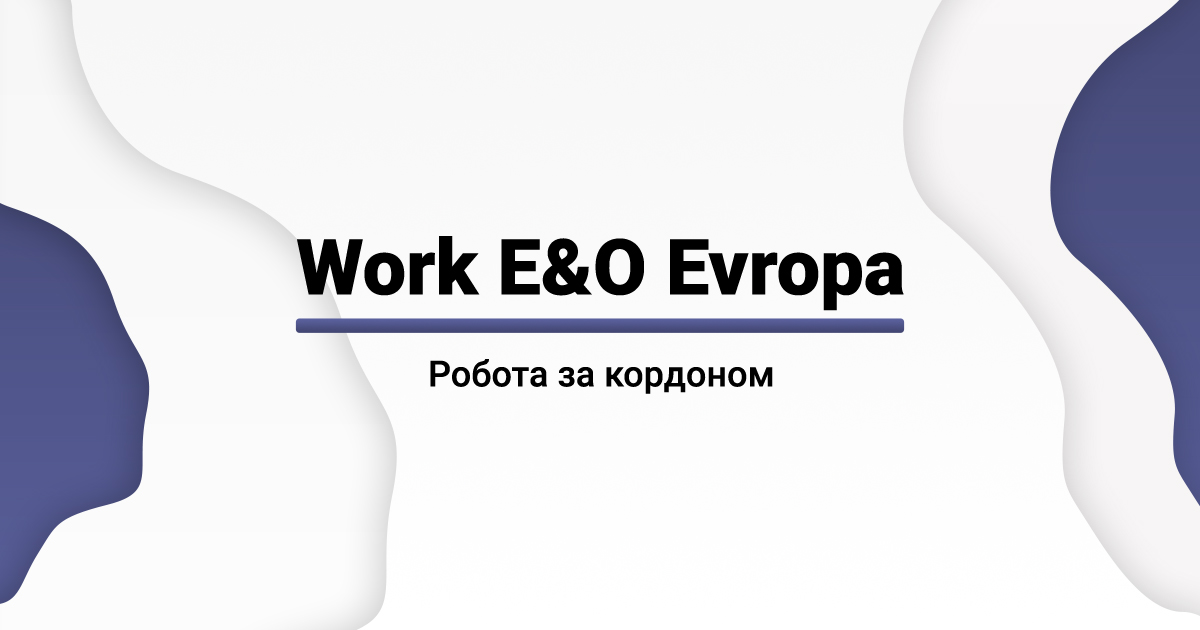
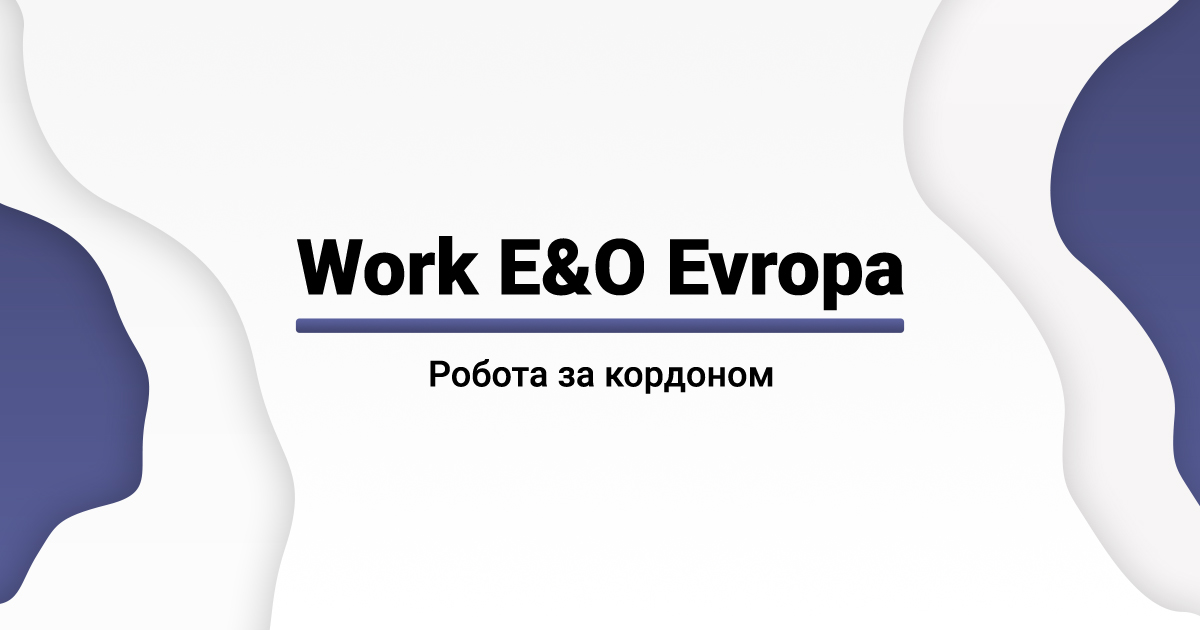
v0.1

diff --git a/css/style.min.css b/css/style.min.css
@@ -1,1 +1,1 @@
-*,body{margin:0}button,hr,input{overflow:visible}progress,sub,sup{vertical-align:baseline}.btn,.burger{-webkit-box-shadow:0 0 6.58px .42px rgba(0,0,0,.34);box-shadow:0 0 6.58px .42px rgba(0,0,0,.34)}.btn,.burger span,.nav-menu-link{-webkit-transition:all .2s ease-in-out;-o-transition:all .2s ease-in-out;transition:all .2s ease-in-out}@font-face{font-weight:900;font-family:Roboto;font-display:swap;font-style:normal;src:url(Roboto-Black.woff) format("woff"),url(Roboto-Black.woff2) format("woff2")}@font-face{font-weight:700;font-family:Roboto;font-display:swap;font-style:normal;src:url(Roboto-Bold.woff) format("woff"),url(Roboto-Bold.woff2) format("woff2")}@font-face{font-family:Roboto;font-display:swap;font-style:normal;font-weight:500;src:url(Roboto-Medium.woff) format("woff"),url(Roboto-Medium.woff2) format("woff2")}@font-face{font-family:Roboto;font-display:swap;font-style:normal;font-weight:400;src:url(Roboto-Regular.woff) format("woff"),url(Roboto-Regular.woff2) format("woff2")}*{padding:0;border:0}*,:after,:before{-webkit-box-sizing:border-box;box-sizing:border-box}:active,:focus,a:active,a:focus{outline:0}aside,details,footer,header,main,nav{display:block}body,html{height:100%;width:100%;line-height:1;font-size:14px;-ms-text-size-adjust:100%;-moz-text-size-adjust:100%;-webkit-text-size-adjust:100%}button,input,textarea{font-family:inherit}input::-ms-clear{display:none}button{cursor:pointer}button::-moz-focus-inner{padding:0;border:0}a,a:hover,a:visited{text-decoration:none}ul li{list-style:none}h1,h2,h3,h4,h5,h6{font-size:inherit;font-weight:400}/*! normalize.css v8.0.1 | MIT License | github.com/necolas/normalize.css */html{line-height:1.15;-webkit-text-size-adjust:100%}h1{font-size:2em;margin:.67em 0}hr{-webkit-box-sizing:content-box;box-sizing:content-box;height:0}code,kbd,pre,samp{font-family:monospace,monospace;font-size:1em}a{background-color:transparent}abbr[title]{border-bottom:none;text-decoration:underline;-webkit-text-decoration:underline dotted;text-decoration:underline dotted}b,strong{font-weight:bolder}small{font-size:80%}sub,sup{font-size:75%;line-height:0;position:relative}sub{bottom:-.25em}sup{top:-.5em}img{vertical-align:top;border-style:none}button,input,optgroup,select,textarea{font-family:inherit;font-size:100%;line-height:1.15;margin:0}button,select{text-transform:none}[type=button],[type=reset],[type=submit],button{-webkit-appearance:button}[type=button]::-moz-focus-inner,[type=reset]::-moz-focus-inner,[type=submit]::-moz-focus-inner,button::-moz-focus-inner{border-style:none;padding:0}[type=button]:-moz-focusring,[type=reset]:-moz-focusring,[type=submit]:-moz-focusring,button:-moz-focusring{outline:ButtonText dotted 1px}fieldset{padding:.35em .75em .625em}legend{-webkit-box-sizing:border-box;box-sizing:border-box;color:inherit;display:table;max-width:100%;padding:0;white-space:normal}._light-color,.btn,.intro{color:#fff}textarea{overflow:auto}.slick-list,.wrapper{overflow:hidden}[type=checkbox],[type=radio]{-webkit-box-sizing:border-box;box-sizing:border-box;padding:0}[type=number]::-webkit-inner-spin-button,[type=number]::-webkit-outer-spin-button{height:auto}[type=search]{-webkit-appearance:textfield;outline-offset:-2px}[type=search]::-webkit-search-decoration{-webkit-appearance:none}::-webkit-file-upload-button{-webkit-appearance:button;font:inherit}summary{display:list-item}[hidden],template{display:none}.slick-list,.slick-slider,.slick-track{position:relative;display:block}.slick-slider{-webkit-box-sizing:border-box;box-sizing:border-box;-webkit-user-select:none;-moz-user-select:none;-ms-user-select:none;user-select:none;-webkit-touch-callout:none;-khtml-user-select:none;-ms-touch-action:pan-y;touch-action:pan-y;-webkit-tap-highlight-color:transparent}.slick-list{margin:0;padding:0}.slick-list:focus{outline:0}.slick-list.dragging{cursor:pointer;cursor:hand}.slick-slider .slick-list,.slick-slider .slick-track{-webkit-transform:translate3d(0,0,0);-ms-transform:translate3d(0,0,0);transform:translate3d(0,0,0)}.slick-track{top:0;left:0;margin-left:auto;margin-right:auto}.slick-track:after,.slick-track:before{display:table;content:''}.slick-track:after{clear:both}.slick-loading .slick-track{visibility:hidden}.slick-slide{display:none;float:left;height:100%;min-height:1px}[dir=rtl] .slick-slide{float:right}.slick-slide img{display:block}.slick-slide.slick-loading img{display:none}.slick-slide.dragging img{pointer-events:none}.slick-initialized .slick-slide{display:block}.slick-loading .slick-slide{visibility:hidden}.slick-vertical .slick-slide{display:block;height:auto;border:1px solid transparent}.slick-arrow.slick-hidden{display:none}.btn,.nav-contacts-tel,.nav-menu-link{display:inline-block}body{font-family:Roboto}.container,.min-container,.very-min-container{margin:0 auto;padding:0 15px}.container{max-width:1630px}.min-container{max-width:1310px}.very-min-container{max-width:769px}.bg-section{position:absolute;left:0;top:0;z-index:-1;width:100%;height:100%}.bg-section::after,.bg-section::before{content:'';position:absolute;left:0;top:0;width:100%;height:100%}.bg-section::before{background-color:#000;opacity:.5}.burger.active span:nth-child(2),.nav{opacity:0}.bg-section::after{background:-o-radial-gradient(circle,rgba(255,255,255,0) 60%,rgba(0,0,0,.7) 100%);background:radial-gradient(circle,rgba(255,255,255,0) 60%,rgba(0,0,0,.7) 100%)}.bg-section-img{width:100%;height:100%;-o-object-fit:cover;object-fit:cover}.btn{text-transform:capitalize;border-radius:15px;background:-webkit-gradient(linear,left bottom, left top,color-stop(0, #424672),to(#5b619e));background:-o-linear-gradient(bottom,#424672 0,#5b619e 100%);background:linear-gradient(0deg,#424672 0,#5b619e 100%);font-weight:500;padding:20px 25px;margin:35px 0 0}.nav-list,.nav-menu,.nav-wrapper{display:-webkit-box;display:-ms-flexbox;display:flex;width:100%}.btn:hover{-webkit-transform:scale(1.1);-ms-transform:scale(1.1);transform:scale(1.1)}.main-title,.min-title,.section-title{text-transform:uppercase}.main-title{text-align:center;font-weight:900;line-height:125%;margin:0 0 5px}.main-text{font-weight:500;line-height:155%}.min-title,.section-title{font-weight:700}.nav{visibility:hidden;position:absolute;left:0;top:0;min-width:100vw;height:100vh;background-color:#fff}.burger,.nav-menu li+li::before{background:-webkit-gradient(linear,left bottom, left top,color-stop(0, #424672),to(#5b619e));background:-o-linear-gradient(bottom,#424672 0,#5b619e 100%);background:linear-gradient(0deg,#424672 0,#5b619e 100%)}.nav.active{opacity:1;visibility:visible}.nav-wrapper{height:100%;overflow:auto}.nav-list{margin:auto;padding:15px 0 30px;-webkit-box-align:center;-ms-flex-align:center;align-items:center;-webkit-box-orient:vertical;-webkit-box-direction:normal;-ms-flex-direction:column;flex-direction:column}.nav-list._column{-webkit-box-orient:vertical;-webkit-box-direction:normal;-ms-flex-direction:column;flex-direction:column}.nav-list li{text-align:center}.nav-menu{margin:0;-webkit-box-orient:vertical;-webkit-box-direction:normal;-ms-flex-direction:column;flex-direction:column}.nav-menu li+li{position:relative}.nav-menu li+li::before{content:'';position:absolute;left:50%;top:0;width:25px;height:5px;-webkit-transform:translate(-50%,0);-ms-transform:translate(-50%,0);transform:translate(-50%,0);border-radius:5px}.nav-menu-link{text-transform:capitalize;position:relative;width:100%;font-weight:500;color:#000;border-radius:15px;padding:25px 20px}.nav-menu-link span{position:relative;z-index:2}.nav-contacts{margin:30px 0 0;-webkit-transform:scale(1.15);-ms-transform:scale(1.15);transform:scale(1.15)}.nav-contacts-tel{color:#000;font-weight:700;padding:3px 0;border-bottom:2px solid #000;margin:3px 0;white-space:nowrap}.burger{position:absolute;right:15px;top:50%;-webkit-transform:translate(0,-50%);-ms-transform:translate(0,-50%);transform:translate(0,-50%);width:45px;height:45px;border-radius:5px;z-index:100}.burger span,.header{background-color:#fff}.burger span{position:absolute;left:0;width:calc(100% - 10px);height:5px;border-radius:10px;-webkit-transform:translate(5px,0);-ms-transform:translate(5px,0);transform:translate(5px,0);-webkit-box-shadow:0 0 6px -1px rgba(0,0,0,.75);box-shadow:0 0 6px -1px rgba(0,0,0,.75)}.burger span:nth-child(1){top:10px;-webkit-transform:translate(5px,-50%);-ms-transform:translate(5px,-50%);transform:translate(5px,-50%)}.burger span:nth-child(2){top:50%;-webkit-transform:translate(5px,-50%);-ms-transform:translate(5px,-50%);transform:translate(5px,-50%)}.burger span:nth-child(3){top:calc(100% - 10px);-webkit-transform:translate(5px,-50%);-ms-transform:translate(5px,-50%);transform:translate(5px,-50%)}.burger.active span:nth-child(1){top:50%;-webkit-transform:translate(5px,-50%) rotate(45deg);-ms-transform:translate(5px,-50%) rotate(45deg);transform:translate(5px,-50%) rotate(45deg)}.burger.active span:nth-child(3){top:50%;-webkit-transform:translate(5px,-50%) rotate(-45deg);-ms-transform:translate(5px,-50%) rotate(-45deg);transform:translate(5px,-50%) rotate(-45deg)}.header{display:-webkit-box;display:-ms-flexbox;display:flex;-webkit-box-align:center;-ms-flex-align:center;align-items:center;position:fixed;z-index:1000;left:0;top:0;width:100%;height:auto;-webkit-box-shadow:0 0 6.58px .42px rgba(0,0,0,.34);box-shadow:0 0 6.58px .42px rgba(0,0,0,.34);padding:0;min-height:65px}.header__container{width:100%;display:-webkit-box;display:-ms-flexbox;display:flex;-webkit-box-pack:justify;-ms-flex-pack:justify;justify-content:space-between;-webkit-box-align:center;-ms-flex-align:center;align-items:center}.header__logo{position:relative;z-index:100;-webkit-box-flex:0;-ms-flex:0 1 50px;flex:0 1 50px;max-width:50px;border-radius:50%}.intro{text-align:center;position:relative;min-height:100vh;padding:100px 0;display:-webkit-box;display:-ms-flexbox;display:flex;-webkit-box-align:center;-ms-flex-align:center;align-items:center}@media (min-width:767px){body{font-size:calc(16px + 0 * ((100vw - 320px)/ 1310))}.btn{font-size:calc(21px + 0 * ((100vw - 320px)/ 1310))}.main-title{font-size:calc(12px + 60 * ((100vw - 320px)/ 1310))}.main-text{font-size:calc(16px + 5 * ((100vw - 320px)/ 1310))}.section-title{font-size:calc(12px + 36 * ((100vw - 320px)/ 1310))}.min-title{font-size:calc(12px + 16 * ((100vw - 320px)/ 1310))}}@media (min-width:992px){.main-title{font-size:72px}.main-text{font-size:21px}.section-title{font-size:48px}.min-title{font-size:28px}.nav{display:block;position:relative;min-width:0;height:auto;opacity:1;visibility:visible}.burger,.nav-menu li+li::before{display:none}.nav-wrapper{overflow:visible}.nav-list{-webkit-box-orient:horizontal;-webkit-box-direction:normal;-ms-flex-direction:row;flex-direction:row;padding:5px 0}.nav-menu{margin:0 25px 0 0;-webkit-box-orient:horizontal;-webkit-box-direction:normal;-ms-flex-direction:row;flex-direction:row}.nav-menu-link{padding:15px 20px;margin:0 5px}.nav-menu-link::before{content:'';background:-webkit-gradient(linear,left bottom, left top,color-stop(0, #424672),to(#5b619e));background:-o-linear-gradient(bottom,#424672 0,#5b619e 100%);background:linear-gradient(0deg,#424672 0,#5b619e 100%);position:absolute;left:0;top:0;border-radius:15px;opacity:0;-webkit-transform:scale(1.1);-ms-transform:scale(1.1);transform:scale(1.1);width:100%;height:100%;-webkit-transition:all .2s ease-in-out;-o-transition:all .2s ease-in-out;transition:all .2s ease-in-out}.nav-menu-link:hover{color:#fff;-webkit-box-shadow:0 0 6.58px .42px rgba(0,0,0,.34);box-shadow:0 0 6.58px .42px rgba(0,0,0,.34)}.nav-menu-link:hover::before{opacity:1;-webkit-transform:scale(1);-ms-transform:scale(1);transform:scale(1)}.nav-contacts{margin:0;-webkit-transform:scale(1);-ms-transform:scale(1);transform:scale(1)}.header__logo{-webkit-box-flex:0;-ms-flex:0 1 200px;flex:0 1 200px;max-width:200px}}@media (min-width:992px) and (min-width:767px){.nav-menu-link{font-size:calc(16px + 0 * ((100vw - 320px)/ 1310))}}@media (max-width:992px){.nav-menu-link{font-size:21px}}@media (max-width:767px){body{font-size:calc(16px + 0 * (100vw / 1310))}.btn{font-size:calc(21px + 0 * (100vw / 1310))}.main-title{font-size:calc(12px + 60 * (100vw / 1310))}.main-text{font-size:calc(16px + 5 * (100vw / 1310))}.section-title{font-size:calc(12px + 36 * (100vw / 1310))}.min-title{font-size:calc(12px + 16 * (100vw / 1310))}}@media (min-width:992px) and (max-width:767px){.nav-menu-link{font-size:calc(16px + 0 * (100vw / 1310))}}
+*,body{margin:0}button,hr,input{overflow:visible}progress,sub,sup{vertical-align:baseline}.btn,.burger{-webkit-box-shadow:0 0 6.58px .42px rgba(0,0,0,.34);box-shadow:0 0 6.58px .42px rgba(0,0,0,.34)}.btn,.burger span,.nav-menu-link{-webkit-transition:all .2s ease-in-out;-o-transition:all .2s ease-in-out;transition:all .2s ease-in-out}@font-face{font-weight:900;font-family:Roboto;font-display:swap;font-style:normal;src:url(Roboto-Black.woff) format("woff"),url(Roboto-Black.woff2) format("woff2")}@font-face{font-weight:700;font-family:Roboto;font-display:swap;font-style:normal;src:url(Roboto-Bold.woff) format("woff"),url(Roboto-Bold.woff2) format("woff2")}@font-face{font-family:Roboto;font-display:swap;font-style:normal;font-weight:500;src:url(Roboto-Medium.woff) format("woff"),url(Roboto-Medium.woff2) format("woff2")}@font-face{font-family:Roboto;font-display:swap;font-style:normal;font-weight:400;src:url(Roboto-Regular.woff) format("woff"),url(Roboto-Regular.woff2) format("woff2")}*{padding:0;border:0}*,:after,:before{-webkit-box-sizing:border-box;box-sizing:border-box}:active,:focus,a:active,a:focus{outline:0}aside,details,footer,header,main,nav{display:block}body,html{height:100%;width:100%;line-height:1;font-size:14px;-ms-text-size-adjust:100%;-moz-text-size-adjust:100%;-webkit-text-size-adjust:100%}button,input,textarea{font-family:inherit}input::-ms-clear{display:none}button{cursor:pointer}button::-moz-focus-inner{padding:0;border:0}a,a:hover,a:visited{text-decoration:none}ul li{list-style:none}h1,h2,h3,h4,h5,h6{font-size:inherit;font-weight:400}/*! normalize.css v8.0.1 | MIT License | github.com/necolas/normalize.css */html{line-height:1.15;-webkit-text-size-adjust:100%}h1{font-size:2em;margin:.67em 0}hr{-webkit-box-sizing:content-box;box-sizing:content-box;height:0}code,kbd,pre,samp{font-family:monospace,monospace;font-size:1em}a{background-color:transparent}abbr[title]{border-bottom:none;text-decoration:underline;-webkit-text-decoration:underline dotted;text-decoration:underline dotted}b,strong{font-weight:bolder}small{font-size:80%}sub,sup{font-size:75%;line-height:0;position:relative}sub{bottom:-.25em}sup{top:-.5em}img{vertical-align:top;border-style:none}button,input,optgroup,select,textarea{font-family:inherit;font-size:100%;line-height:1.15;margin:0}button,select{text-transform:none}[type=button],[type=reset],[type=submit],button{-webkit-appearance:button}[type=button]::-moz-focus-inner,[type=reset]::-moz-focus-inner,[type=submit]::-moz-focus-inner,button::-moz-focus-inner{border-style:none;padding:0}[type=button]:-moz-focusring,[type=reset]:-moz-focusring,[type=submit]:-moz-focusring,button:-moz-focusring{outline:ButtonText dotted 1px}fieldset{padding:.35em .75em .625em}legend{-webkit-box-sizing:border-box;box-sizing:border-box;color:inherit;display:table;max-width:100%;padding:0;white-space:normal}._light-color,.btn,.intro{color:#fff}textarea{overflow:auto}.slick-list,.wrapper{overflow:hidden}[type=checkbox],[type=radio]{-webkit-box-sizing:border-box;box-sizing:border-box;padding:0}[type=number]::-webkit-inner-spin-button,[type=number]::-webkit-outer-spin-button{height:auto}[type=search]{-webkit-appearance:textfield;outline-offset:-2px}[type=search]::-webkit-search-decoration{-webkit-appearance:none}::-webkit-file-upload-button{-webkit-appearance:button;font:inherit}summary{display:list-item}[hidden],template{display:none}.slick-list,.slick-slider,.slick-track{position:relative;display:block}.slick-slider{-webkit-box-sizing:border-box;box-sizing:border-box;-webkit-user-select:none;-moz-user-select:none;-ms-user-select:none;user-select:none;-webkit-touch-callout:none;-khtml-user-select:none;-ms-touch-action:pan-y;touch-action:pan-y;-webkit-tap-highlight-color:transparent}.slick-list{margin:0;padding:0}.slick-list:focus{outline:0}.slick-list.dragging{cursor:pointer;cursor:hand}.slick-slider .slick-list,.slick-slider .slick-track{-webkit-transform:translate3d(0,0,0);-ms-transform:translate3d(0,0,0);transform:translate3d(0,0,0)}.slick-track{top:0;left:0;margin-left:auto;margin-right:auto}.slick-track:after,.slick-track:before{display:table;content:''}.slick-track:after{clear:both}.slick-loading .slick-track{visibility:hidden}.slick-slide{display:none;float:left;height:100%;min-height:1px}[dir=rtl] .slick-slide{float:right}.slick-slide img{display:block}.slick-slide.slick-loading img{display:none}.slick-slide.dragging img{pointer-events:none}.slick-initialized .slick-slide{display:block}.slick-loading .slick-slide{visibility:hidden}.slick-vertical .slick-slide{display:block;height:auto;border:1px solid transparent}.slick-arrow.slick-hidden{display:none}.btn,.nav-contacts-tel,.nav-menu-link{display:inline-block}body{font-family:Roboto}.container,.min-container,.very-min-container{margin:0 auto;padding:0 15px}.container{max-width:1630px}.min-container{max-width:1310px}.very-min-container{max-width:769px}.bg-section{position:absolute;left:0;top:0;z-index:-1;width:100%;height:100%}.bg-section::after,.bg-section::before{content:'';position:absolute;left:0;top:0;width:100%;height:100%}.bg-section::before{background-color:#000;opacity:.35}.burger.active span:nth-child(2),.nav{opacity:0}.bg-section::after{background:-o-radial-gradient(circle,rgba(255,255,255,0) 60%,#000 100%);background:radial-gradient(circle,rgba(255,255,255,0) 60%,#000 100%)}.bg-section-img{width:100%;height:100%;-o-object-fit:cover;object-fit:cover}.btn{text-transform:capitalize;border-radius:15px;background:-webkit-gradient(linear,left bottom, left top,color-stop(0, #424672),to(#5b619e));background:-o-linear-gradient(bottom,#424672 0,#5b619e 100%);background:linear-gradient(0deg,#424672 0,#5b619e 100%);font-weight:500;padding:20px 25px;margin:35px 0 0}.nav-list,.nav-menu,.nav-wrapper{display:-webkit-box;display:-ms-flexbox;display:flex;width:100%}.btn:hover{-webkit-transform:scale(1.1);-ms-transform:scale(1.1);transform:scale(1.1)}.main-title,.min-title,.section-title{text-transform:uppercase}.main-title{text-align:center;font-weight:900;line-height:125%;margin:0 0 5px}.main-text{font-weight:500;line-height:155%}.min-title,.section-title{font-weight:700}.nav{visibility:hidden;position:absolute;left:0;top:0;min-width:100vw;height:100vh;background-color:#fff}.burger,.nav-menu li+li::before{background:-webkit-gradient(linear,left bottom, left top,color-stop(0, #424672),to(#5b619e));background:-o-linear-gradient(bottom,#424672 0,#5b619e 100%);background:linear-gradient(0deg,#424672 0,#5b619e 100%)}.nav.active{opacity:1;visibility:visible}.nav-wrapper{height:100%;overflow:auto}.nav-list{margin:auto;padding:15px 0 30px;-webkit-box-align:center;-ms-flex-align:center;align-items:center;-webkit-box-orient:vertical;-webkit-box-direction:normal;-ms-flex-direction:column;flex-direction:column}.nav-list._column{-webkit-box-orient:vertical;-webkit-box-direction:normal;-ms-flex-direction:column;flex-direction:column}.nav-list li{text-align:center}.nav-menu{margin:0;-webkit-box-orient:vertical;-webkit-box-direction:normal;-ms-flex-direction:column;flex-direction:column}.nav-menu li+li{position:relative}.nav-menu li+li::before{content:'';position:absolute;left:50%;top:0;width:25px;height:5px;-webkit-transform:translate(-50%,0);-ms-transform:translate(-50%,0);transform:translate(-50%,0);border-radius:5px}.nav-menu-link{text-transform:capitalize;position:relative;width:100%;font-weight:500;color:#000;border-radius:15px;padding:25px 20px}.nav-menu-link span{position:relative;z-index:2}.nav-contacts{margin:30px 0 0;-webkit-transform:scale(1.15);-ms-transform:scale(1.15);transform:scale(1.15)}.nav-contacts-tel{color:#000;font-weight:700;padding:3px 0;border-bottom:2px solid #000;margin:3px 0;white-space:nowrap}.burger{position:absolute;right:15px;top:50%;-webkit-transform:translate(0,-50%);-ms-transform:translate(0,-50%);transform:translate(0,-50%);width:45px;height:45px;border-radius:5px;z-index:100}.burger span,.header{background-color:#fff}.burger span{position:absolute;left:0;width:calc(100% - 10px);height:5px;border-radius:10px;-webkit-transform:translate(5px,0);-ms-transform:translate(5px,0);transform:translate(5px,0);-webkit-box-shadow:0 0 6px -1px rgba(0,0,0,.75);box-shadow:0 0 6px -1px rgba(0,0,0,.75)}.burger span:nth-child(1){top:10px;-webkit-transform:translate(5px,-50%);-ms-transform:translate(5px,-50%);transform:translate(5px,-50%)}.burger span:nth-child(2){top:50%;-webkit-transform:translate(5px,-50%);-ms-transform:translate(5px,-50%);transform:translate(5px,-50%)}.burger span:nth-child(3){top:calc(100% - 10px);-webkit-transform:translate(5px,-50%);-ms-transform:translate(5px,-50%);transform:translate(5px,-50%)}.burger.active span:nth-child(1){top:50%;-webkit-transform:translate(5px,-50%) rotate(45deg);-ms-transform:translate(5px,-50%) rotate(45deg);transform:translate(5px,-50%) rotate(45deg)}.burger.active span:nth-child(3){top:50%;-webkit-transform:translate(5px,-50%) rotate(-45deg);-ms-transform:translate(5px,-50%) rotate(-45deg);transform:translate(5px,-50%) rotate(-45deg)}.header{display:-webkit-box;display:-ms-flexbox;display:flex;-webkit-box-align:center;-ms-flex-align:center;align-items:center;position:fixed;z-index:1000;left:0;top:0;width:100%;height:auto;-webkit-box-shadow:0 0 6.58px .42px rgba(0,0,0,.34);box-shadow:0 0 6.58px .42px rgba(0,0,0,.34);padding:0;min-height:65px}.header__container{width:100%;display:-webkit-box;display:-ms-flexbox;display:flex;-webkit-box-pack:justify;-ms-flex-pack:justify;justify-content:space-between;-webkit-box-align:center;-ms-flex-align:center;align-items:center}.header__logo{position:relative;z-index:100;-webkit-box-flex:0;-ms-flex:0 1 50px;flex:0 1 50px;max-width:50px;border-radius:50%}.intro{text-align:center;position:relative;min-height:100vh;padding:100px 0;display:-webkit-box;display:-ms-flexbox;display:flex;-webkit-box-align:center;-ms-flex-align:center;align-items:center}@media (min-width:767px){body{font-size:calc(16px + 0 * ((100vw - 320px)/ 1310))}.btn{font-size:calc(21px + 0 * ((100vw - 320px)/ 1310))}.main-title{font-size:calc(12px + 60 * ((100vw - 320px)/ 1310))}.main-text{font-size:calc(16px + 5 * ((100vw - 320px)/ 1310))}.section-title{font-size:calc(12px + 36 * ((100vw - 320px)/ 1310))}.min-title{font-size:calc(12px + 16 * ((100vw - 320px)/ 1310))}}@media (min-width:992px){.main-title{font-size:72px}.main-text{font-size:21px}.section-title{font-size:48px}.min-title{font-size:28px}.nav{display:block;position:relative;min-width:0;height:auto;opacity:1;visibility:visible}.burger,.nav-menu li+li::before{display:none}.nav-wrapper{overflow:visible}.nav-list{-webkit-box-orient:horizontal;-webkit-box-direction:normal;-ms-flex-direction:row;flex-direction:row;padding:5px 0}.nav-menu{margin:0 25px 0 0;-webkit-box-orient:horizontal;-webkit-box-direction:normal;-ms-flex-direction:row;flex-direction:row}.nav-menu-link{padding:15px 20px;margin:0 5px}.nav-menu-link::before{content:'';background:-webkit-gradient(linear,left bottom, left top,color-stop(0, #424672),to(#5b619e));background:-o-linear-gradient(bottom,#424672 0,#5b619e 100%);background:linear-gradient(0deg,#424672 0,#5b619e 100%);position:absolute;left:0;top:0;border-radius:15px;opacity:0;-webkit-transform:scale(1.1);-ms-transform:scale(1.1);transform:scale(1.1);width:100%;height:100%;-webkit-transition:all .2s ease-in-out;-o-transition:all .2s ease-in-out;transition:all .2s ease-in-out}.nav-menu-link:hover{color:#fff;-webkit-box-shadow:0 0 6.58px .42px rgba(0,0,0,.34);box-shadow:0 0 6.58px .42px rgba(0,0,0,.34)}.nav-menu-link:hover::before{opacity:1;-webkit-transform:scale(1);-ms-transform:scale(1);transform:scale(1)}.nav-contacts{margin:0;-webkit-transform:scale(1);-ms-transform:scale(1);transform:scale(1)}.header__logo{-webkit-box-flex:0;-ms-flex:0 1 200px;flex:0 1 200px;max-width:200px}}@media (min-width:992px) and (min-width:767px){.nav-menu-link{font-size:calc(16px + 0 * ((100vw - 320px)/ 1310))}}@media (max-width:992px){.nav-menu-link{font-size:21px}}@media (max-width:767px){body{font-size:calc(16px + 0 * (100vw / 1310))}.btn{font-size:calc(21px + 0 * (100vw / 1310))}.main-title{font-size:calc(12px + 60 * (100vw / 1310))}.main-text{font-size:calc(16px + 5 * (100vw / 1310))}.section-title{font-size:calc(12px + 36 * (100vw / 1310))}.min-title{font-size:calc(12px + 16 * (100vw / 1310))}}@media (min-width:992px) and (max-width:767px){.nav-menu-link{font-size:calc(16px + 0 * (100vw / 1310))}}

diff --git a/scss/_vars.scss b/scss/_vars.scss
@@ -1,7 +1,7 @@
 $accentDark: #1b1e3f;
 
 $gradientAccent: linear-gradient( 0deg, rgb(66,70,114) 0%, rgb(91,97,158) 100%);
-$gradientVignette: radial-gradient(circle, rgba(255,255,255,0) 60%, rgba(0,0,0,0.7) 100%);
+$gradientVignette: radial-gradient(circle, rgba(255,255,255,0) 60%, rgb(0,0,0) 100%);
 
 $shadowAccent: 0px 0px 6.58px 0.42px rgba(0, 0, 0, 0.34);  
 

diff --git a/scss/_global.scss b/scss/_global.scss
@@ -48,7 +48,7 @@ body {
     }
     &::before {
         background-color: $black;
-        opacity: 0.5;
+        opacity: 0.35;
     }
     &::after {
         background: $gradientVignette;
